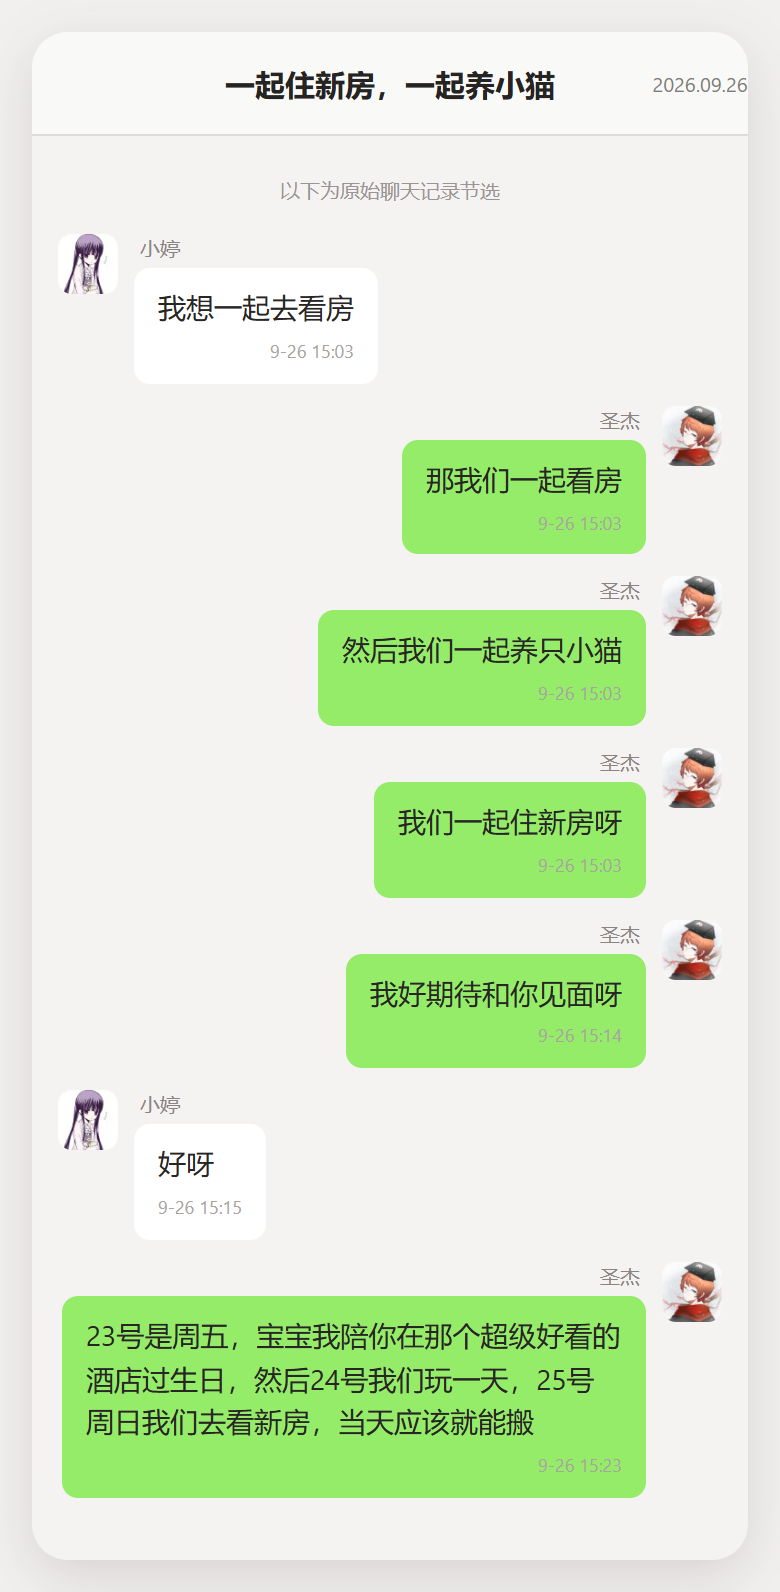
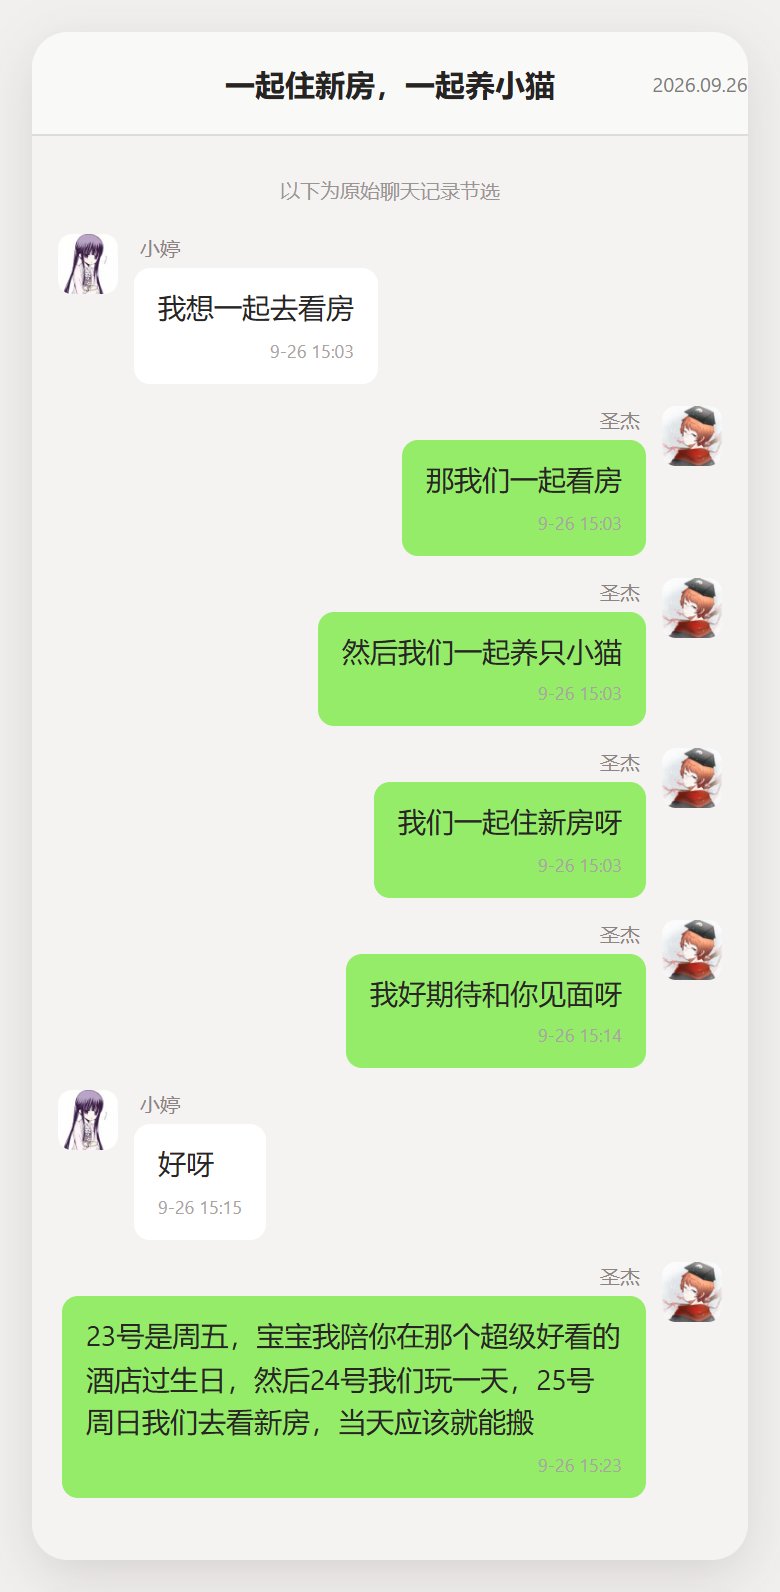
Expand memoir photo and chat archive

Changed region(s): [[0.4308, 0.3386, 0.8308, 0.4309], [0.8615, 0.3386, 0.9231, 0.4001]]

diff --git a/memoir/index.html b/memoir/index.html
@@ -598,6 +598,7 @@
           <p>这些事情单独拿出一件都不值得写进故事。可当它们连续发生了几十天，就慢慢变成了一种默契：我知道你什么时候忙，你知道我什么时候会等电话。</p>
           <p>后来我最怀念的，就是这种不用特别安排的一天。没有节日，没有礼物，只有你一直在我的消息列表里。</p>
           <figure class="photo-wide photo-card"><img src="assets/photos/meal.jpg" alt="一份饭"><figcaption>一天里最先发生的，常常是吃饭这样的小事。</figcaption></figure>
+          <figure class="chat-shot"><img src="assets/chat-morning.png" alt="早晨问候的原始聊天记录节选"></figure>
         `
       },
       {
@@ -633,6 +634,7 @@
           <p>后来我才知道，喜欢一个人，真的会把“你吃了吗”问很多很多遍。</p>
           <p>肯德基不是多了不起的东西，奶茶也不是。可当一个人愿意记住你爱喝什么、今天有没有吃，连普通外卖都像是被认真对待过。</p>
           <figure class="photo-wide photo-card"><img src="assets/photos/dinner.jpg" alt="一桌饭菜"><figcaption>那些问过的“吃了吗”，后来都变成具体的饭菜。</figcaption></figure>
+          <figure class="chat-shot"><img src="assets/chat-milktea.png" alt="肯德基和奶茶的原始聊天记录节选"></figure>
         `
       },
       {
@@ -736,6 +738,7 @@
           <p>你也不是只会被我催。你会让我感冒了多喝水、好好吃饭，会让我别太累。</p>
           <p>有时候我们已经聊到很晚，我还是舍不得挂。可第二天想到你要早起，又会后悔没有早点让你睡。关心一个人，大概就是在这种舍不得和不忍心之间来回。</p>
           <figure class="photo-wide photo-card"><img src="assets/photos/teddy.jpg" alt="一只玩偶"><figcaption>夜里说完晚安，手机放下以后还剩下一点舍不得。</figcaption></figure>
+          <figure class="chat-shot"><img src="assets/chat-sleep.png" alt="晚安和早睡的原始聊天记录节选"></figure>
         `
       },
       {
@@ -832,6 +835,7 @@
             <figure class="photo-card"><img src="assets/photos/cat-floor.jpg" alt="地板上的小猫"><figcaption>走到哪里都能遇到猫。</figcaption></figure>
             <figure class="photo-card"><img src="assets/photos/cat-close.jpg" alt="小猫近距离照片"><figcaption>这张看起来像在等摸摸。</figcaption></figure>
           </div>
+          <figure class="chat-shot"><img src="assets/chat-cat.png" alt="猫猫和你的原始聊天记录节选"></figure>
         `
       },
       {
@@ -849,6 +853,7 @@
           <p>分享东西看起来没什么，可“看到好笑的第一个想到你”，本身就是喜欢。</p>
           <p>292 次分享里，很多视频我后来都不记得内容了，但我记得输入框上面那句“分享给 小婷”，也记得看到猫和短剧时下意识就想点发送。</p>
           <figure class="photo-wide photo-card"><img src="assets/photos/cat-green.jpg" alt="一只猫"><figcaption>猫猫大概是 292 次分享里出现最多的一类。</figcaption></figure>
+          <figure class="chat-shot"><img src="assets/chat-share.png" alt="抖音分享相关原始聊天记录节选"></figure>
         `
       },
       {
@@ -869,6 +874,7 @@
             <figure class="photo-card"><img src="assets/photos/gift-box.jpg" alt="礼盒和娃娃"><figcaption>9 月 10 日，礼盒和娃娃。</figcaption></figure>
             <figure class="photo-card"><img src="assets/photos/teddy.jpg" alt="一只小熊玩偶"><figcaption>8 月 20 日，小熊。</figcaption></figure>
           </div>
+          <figure class="chat-shot"><img src="assets/chat-photo.png" alt="照片和穿搭相关原始聊天记录节选"></figure>
         `
       },
       {
@@ -898,6 +904,126 @@
           <p>后来我最想念的，不是某个特别浪漫的大场面，是这些看起来没有营养、只有我们两个人懂的话。</p>
           <p>比如我发“发了个日常嘿嘿”，你回一张照片；你问猫可爱还是你可爱，我立刻说你更可爱。日子就是在这种一来一回里，慢慢有了只属于我们的语气。</p>
           <figure class="photo-wide photo-card"><img src="assets/photos/teddy.jpg" alt="一只小熊玩偶"><figcaption>有些照片没有故事，看到就会想起那阵子。</figcaption></figure>
+        `
+      },
+      {
+        type: "chapter-page",
+        chapter: "第三幕附录",
+        title: "照片簿",
+        html: `
+          <p>光有文字还不够。你发给我的那些照片，也占了这本回忆录很重要的一部分。</p>
+        `
+      },
+      {
+        chapter: "第三幕附录 · 照片簿",
+        title: "照片簿 01：刚熟悉的时候",
+        html: `
+          <div class="photo-grid">
+            <figure class="photo-card"><img src="assets/photos/first-photo.jpg" alt="早期照片"><figcaption>7 月 24 日，聊天里的第一组照片之一。</figcaption></figure>
+            <figure class="photo-card"><img src="assets/photos/bouquet.jpg" alt="花束"><figcaption>8 月 1 日，花。</figcaption></figure>
+            <figure class="photo-card"><img src="assets/photos/hand-ring.jpg" alt="手和戒指"><figcaption>8 月 2 日，手上的戒指。</figcaption></figure>
+            <figure class="photo-card"><img src="assets/photos/selfie-message.jpg" alt="自拍"><figcaption>8 月 3 日，自拍。</figcaption></figure>
+            <figure class="photo-card"><img src="assets/photos/cosplay-selfie-1.jpg" alt="近照"><figcaption>8 月 3 日，另一张照片。</figcaption></figure>
+            <figure class="photo-card"><img src="assets/photos/cosplay-blue.jpg" alt="蓝色穿搭"><figcaption>8 月 6 日，蓝色穿搭。</figcaption></figure>
+          </div>
+        `
+      },
+      {
+        chapter: "第三幕附录 · 照片簿",
+        title: "照片簿 02：裙子和喜欢的小东西",
+        html: `
+          <div class="photo-grid">
+            <figure class="photo-card"><img src="assets/photos/cosplay-outdoor.jpg" alt="户外照片"><figcaption>8 月 12 日，出门拍照。</figcaption></figure>
+            <figure class="photo-card"><img src="assets/photos/gift-set.jpg" alt="礼物"><figcaption>8 月 13 日，礼盒和小物。</figcaption></figure>
+            <figure class="photo-card"><img src="assets/photos/dolls.jpg" alt="娃娃"><figcaption>8 月 19 日，一整柜娃娃。</figcaption></figure>
+            <figure class="photo-card"><img src="assets/photos/teddy.jpg" alt="小熊"><figcaption>8 月 20 日，小熊。</figcaption></figure>
+            <figure class="photo-card"><img src="assets/photos/pink-dress.jpg" alt="粉色裙子"><figcaption>9 月 10 日，粉色裙子。</figcaption></figure>
+            <figure class="photo-card"><img src="assets/photos/gift-box.jpg" alt="礼盒"><figcaption>9 月 10 日，礼盒里的娃娃。</figcaption></figure>
+          </div>
+        `
+      },
+      {
+        chapter: "第三幕附录 · 照片簿",
+        title: "照片簿 03：游戏和生活",
+        html: `
+          <div class="photo-grid">
+            <figure class="photo-card"><img src="assets/photos/portrait-cafe.jpg" alt="日常照片"><figcaption>9 月 6 日，安安静静的一张照片。</figcaption></figure>
+            <figure class="photo-card"><img src="assets/photos/workspace.jpg" alt="室内照片"><figcaption>8 月 23 日，你发来的室内照片。</figcaption></figure>
+            <figure class="photo-card"><img src="assets/photos/gaming-setup.jpg" alt="游戏工位"><figcaption>8 月 24 日，游戏工位。</figcaption></figure>
+            <figure class="photo-card"><img src="assets/photos/game-match-1.jpg" alt="游戏对局"><figcaption>8 月 18 日，游戏对局。</figcaption></figure>
+            <figure class="photo-card"><img src="assets/photos/game-match-2.jpg" alt="游戏战绩"><figcaption>9 月 5 日，游戏战绩。</figcaption></figure>
+            <figure class="photo-card"><img src="assets/photos/game-list.jpg" alt="游戏列表"><figcaption>9 月 25 日，游戏列表。</figcaption></figure>
+          </div>
+        `
+      },
+      {
+        chapter: "第三幕附录 · 照片簿",
+        title: "照片簿 04：一整个猫猫频道",
+        html: `
+          <div class="photo-grid">
+            <figure class="photo-card"><img src="assets/photos/cat-orange.jpg" alt="橘猫"><figcaption>9 月 15 日，橘猫。</figcaption></figure>
+            <figure class="photo-card"><img src="assets/photos/cat-bed.jpg" alt="床上的猫"><figcaption>9 月 24 日，窝在床上的猫。</figcaption></figure>
+            <figure class="photo-card"><img src="assets/photos/cat-orange-2.jpg" alt="猫猫"><figcaption>9 月 27 日，又一只橘猫。</figcaption></figure>
+            <figure class="photo-card"><img src="assets/photos/cat-floor.jpg" alt="地板上的猫"><figcaption>9 月 25 日，地板上的小猫。</figcaption></figure>
+            <figure class="photo-card"><img src="assets/photos/cat-close.jpg" alt="猫脸特写"><figcaption>9 月 29 日，凑近镜头的小猫。</figcaption></figure>
+            <figure class="photo-card"><img src="assets/photos/cat-green.jpg" alt="绿色背景的猫"><figcaption>9 月 28 日，另一张猫猫。</figcaption></figure>
+          </div>
+        `
+      },
+      {
+        chapter: "第三幕附录 · 照片簿",
+        title: "照片簿 05：吃饭这件大事",
+        html: `
+          <div class="photo-grid">
+            <figure class="photo-card"><img src="assets/photos/dinner.jpg" alt="晚餐"><figcaption>8 月 30 日，一桌饭。</figcaption></figure>
+            <figure class="photo-card"><img src="assets/photos/meal.jpg" alt="饭菜"><figcaption>8 月 29 日，普通的一餐。</figcaption></figure>
+            <figure class="photo-card"><img src="assets/photos/barbecue.jpg" alt="烤肉"><figcaption>8 月 27 日，烤肉。</figcaption></figure>
+            <figure class="photo-card"><img src="assets/photos/soup.jpg" alt="热汤"><figcaption>9 月 5 日，热汤。</figcaption></figure>
+            <figure class="photo-card"><img src="assets/photos/watermelon.jpg" alt="西瓜"><figcaption>10 月 4 日，切好的西瓜。</figcaption></figure>
+            <figure class="photo-card"><img src="assets/photos/plush-cat.jpg" alt="猫咪玩偶"><figcaption>9 月 14 日，猫咪玩偶。</figcaption></figure>
+          </div>
+        `
+      },
+      {
+        chapter: "第三幕附录 · 照片簿",
+        title: "照片簿 06：你喜欢的风景",
+        html: `
+          <div class="photo-grid">
+            <figure class="photo-card"><img src="assets/photos/portrait-close.jpg" alt="近照"><figcaption>9 月 12 日，近照。</figcaption></figure>
+            <figure class="photo-card"><img src="assets/photos/bunny-selfie.jpg" alt="兔子造型"><figcaption>9 月 26 日，兔子耳造型。</figcaption></figure>
+            <figure class="photo-card"><img src="assets/photos/school-style.jpg" alt="学院风照片"><figcaption>9 月 2 日，学院风照片。</figcaption></figure>
+            <figure class="photo-card"><img src="assets/photos/swing-beach.jpg" alt="海边秋千"><figcaption>9 月 14 日，海边秋千。</figcaption></figure>
+            <figure class="photo-card"><img src="assets/photos/seaside-blue.jpg" alt="海边蓝裙"><figcaption>8 月 29 日，海边蓝裙。</figcaption></figure>
+            <figure class="photo-card"><img src="assets/photos/room.jpg" alt="房间"><figcaption>8 月 27 日，房间一角。</figcaption></figure>
+          </div>
+        `
+      },
+      {
+        chapter: "第三幕附录 · 照片簿",
+        title: "照片簿 07：为见面准备",
+        html: `
+          <div class="photo-grid">
+            <figure class="photo-card"><img src="assets/photos/dress-mirror.jpg" alt="裙子与试衣"><figcaption>10 月 12 日，试裙子。</figcaption></figure>
+            <figure class="photo-card"><img src="assets/photos/portrait-outfit.jpg" alt="穿搭照片"><figcaption>10 月 13 日，见面前的穿搭。</figcaption></figure>
+            <figure class="photo-card"><img src="assets/photos/teddy.jpg" alt="玩偶"><figcaption>带进房间的小物。</figcaption></figure>
+            <figure class="photo-card"><img src="assets/photos/airport-hall.jpg" alt="机场大厅"><figcaption>10 月 23 日，机场大厅。</figcaption></figure>
+            <figure class="photo-card"><img src="assets/photos/hotel-room.jpg" alt="酒店房间"><figcaption>10 月 11 日，提前看的房间。</figcaption></figure>
+            <figure class="photo-card"><img src="assets/photos/hotel-bouquet.jpg" alt="酒店里的花"><figcaption>10 月 23 日，房间里的花。</figcaption></figure>
+          </div>
+        `
+      },
+      {
+        chapter: "第三幕附录 · 照片簿",
+        title: "照片簿 08：见过以后",
+        html: `
+          <div class="photo-grid">
+            <figure class="photo-card"><img src="assets/photos/hotel-flower.jpg" alt="酒店里的花"><figcaption>10 月 23 日，等你的时候拍下的花。</figcaption></figure>
+            <figure class="photo-card"><img src="assets/photos/cosplay-room.jpg" alt="见面时的裙子"><figcaption>那天准备好的衣服。</figcaption></figure>
+            <figure class="photo-card"><img src="assets/photos/farewell-flowers.jpg" alt="告别时的花"><figcaption>10 月 25 日，花和房间。</figcaption></figure>
+            <figure class="photo-card"><img src="assets/photos/last-meal.jpg" alt="一起吃的饭"><figcaption>10 月 25 日，一起吃饭。</figcaption></figure>
+            <figure class="photo-card"><img src="assets/photos/holding-hands.jpg" alt="牵手照片"><figcaption>10 月 25 日，牵过的手。</figcaption></figure>
+            <figure class="photo-card"><img src="assets/photos/cat-last.jpg" alt="猫猫"><figcaption>10 月 25 日，还是没忘了拍猫。</figcaption></figure>
+          </div>
         `
       },
       {
@@ -943,6 +1069,7 @@
           <div class="quote">我们要在一起一辈子呀。<small>圣杰 · 2026.08.19</small></div>
           <figure class="chat-shot"><img src="assets/chat-sweet.png" alt="8月19日原始聊天记录节选"></figure>
           <p>你说我们有老公之后，好像生活里多了一层兜底。那种“有人接着我”的感觉，是我最想给你的东西。</p>
+          <figure class="chat-shot"><img src="assets/chat-love.png" alt="喜欢你爱你相关原始聊天记录节选"></figure>
         `
       },
       {
@@ -1089,6 +1216,7 @@
           <p>旅行还没走完，目的地我已经记了一长串。</p>
           <p>我甚至想过先去哪里、住哪里、哪天拍照。计划写得越细，越像是在认真准备一段共同的以后。</p>
           <figure class="photo-wide photo-card"><img src="assets/photos/cosplay-outdoor.jpg" alt="户外照片"><figcaption>你说想去玩，我脑子里已经有拍照的画面了。</figcaption></figure>
+          <figure class="chat-shot"><img src="assets/chat-travel.png" alt="旅行计划相关原始聊天记录节选"></figure>
         `
       },
       {
@@ -1137,6 +1265,7 @@
           </div>
           <p>倒计时那几天，连一条裙子、一双鞋、头发要不要卷都值得讨论。现在看很可爱，因为那些小小的准备里，全都是“我想让你更喜欢我一点”。</p>
           <figure class="photo-wide photo-card"><img src="assets/photos/pink-dress.jpg" alt="粉色裙子的照片"><figcaption>为见面挑过、试过的衣服。</figcaption></figure>
+          <figure class="chat-shot"><img src="assets/chat-countdown.png" alt="见面前倒计时相关原始聊天记录节选"></figure>
         `
       },
       {
